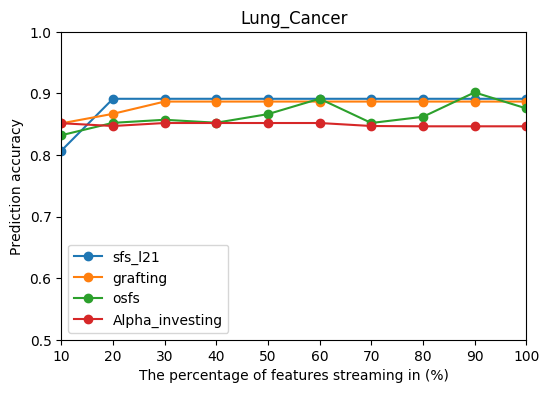
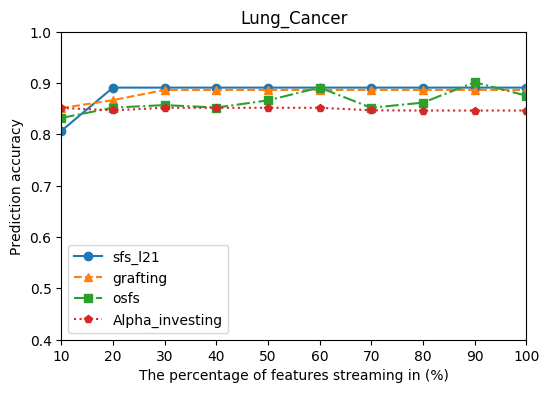
alter .png, line to virtual line for easily to identify

diff --git a/datas/gene/all_result/draw.py b/datas/gene/all_result/draw.py
@@ -7,7 +7,7 @@ def draw(cls, nfs):
 
     fig, axes = plt.subplots(2, 1)
 
-    style='o- ^- x- *- .-'.split(' ')
+    style='o- ^-- s-. p:'.split(' ')
     cls.plot(ax=axes[0], style=style, ylim=(0.4, 1.0))
     nfs.plot(ax=axes[1], style=style, ylim=(0, 60))
 
@@ -17,7 +17,7 @@ def draw(cls, nfs):
     plt.xlabel("datasets")
     #plt.show()
     fig.set_size_inches(12, 8)
-    fig.savefig("all_final.png", bbox_inches='tight')
+    fig.savefig("all_final_clear.png", bbox_inches='tight')
     plt.close()
 
 def get_cls_nfs_1():

diff --git a/datas/gene/all_result/streaming/draw.py b/datas/gene/all_result/streaming/draw.py
@@ -53,7 +53,8 @@ def read_output_streaming_of_one_dataset(dataset_name):
     
 def draw(cls, fname):
     fig, ax = plt.subplots(1, 1)
-    cls.plot(ax=ax, style='o-', ylim=(0.5, 1.0))
+    style='o- ^-- s-. p:'.split(' ')
+    cls.plot(ax=ax, style=style, ylim=(0.4, 1.0))
     #nfs.plot(ax=axes[1], style='*-', ylim=(0, 90))
     ax.set_ylabel('Prediction accuracy')
     ax.set_xlabel('The percentage of features streaming in (%)')
